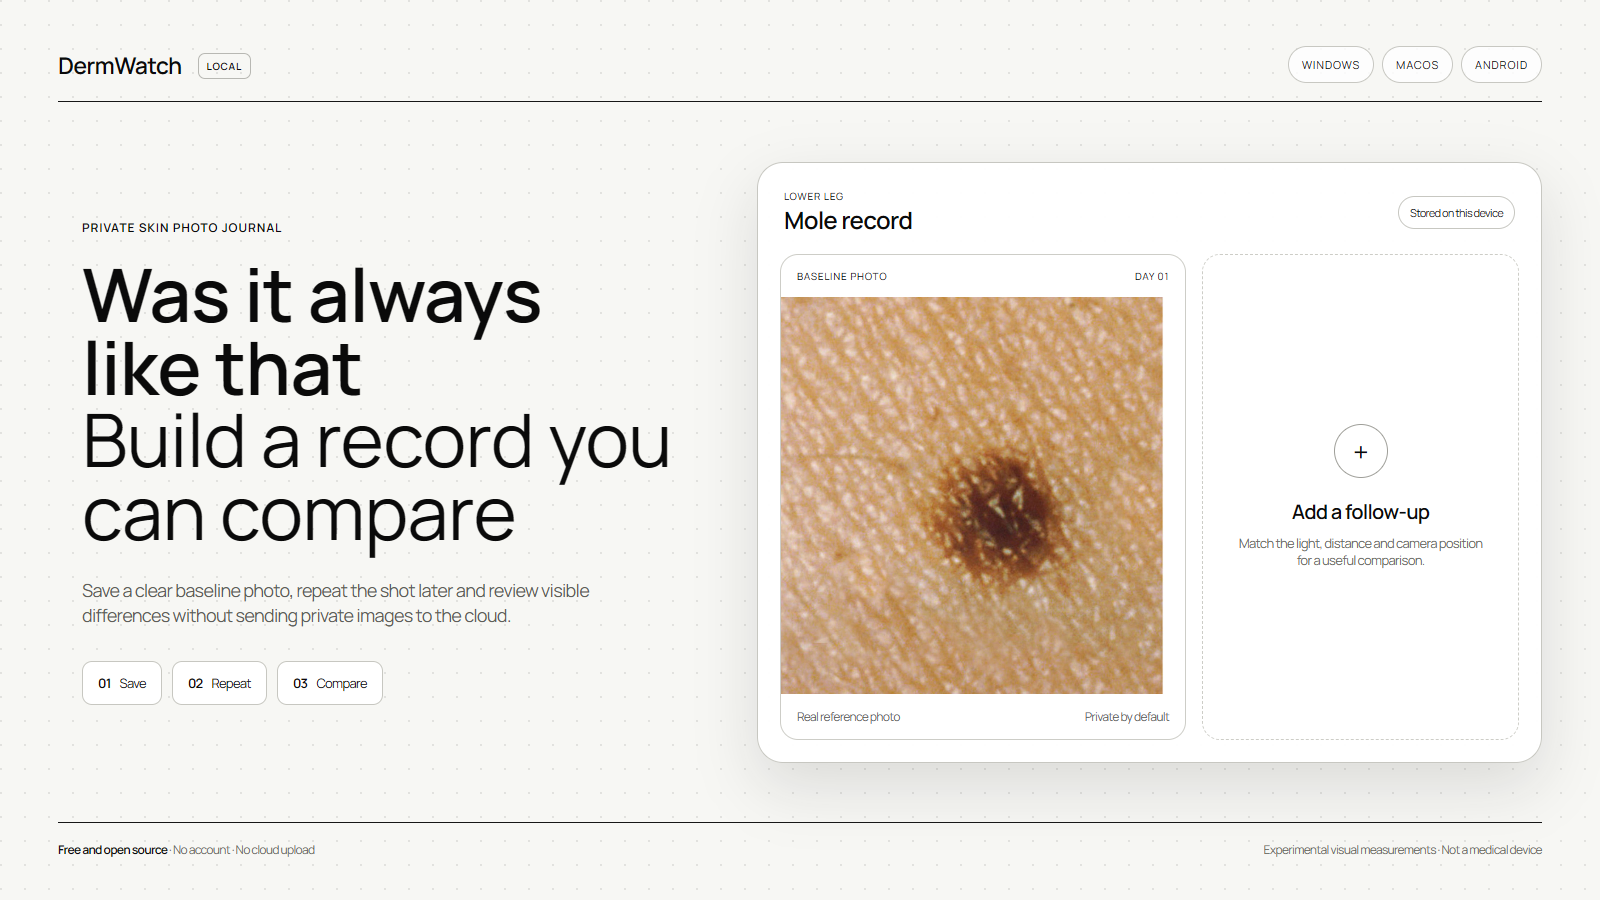
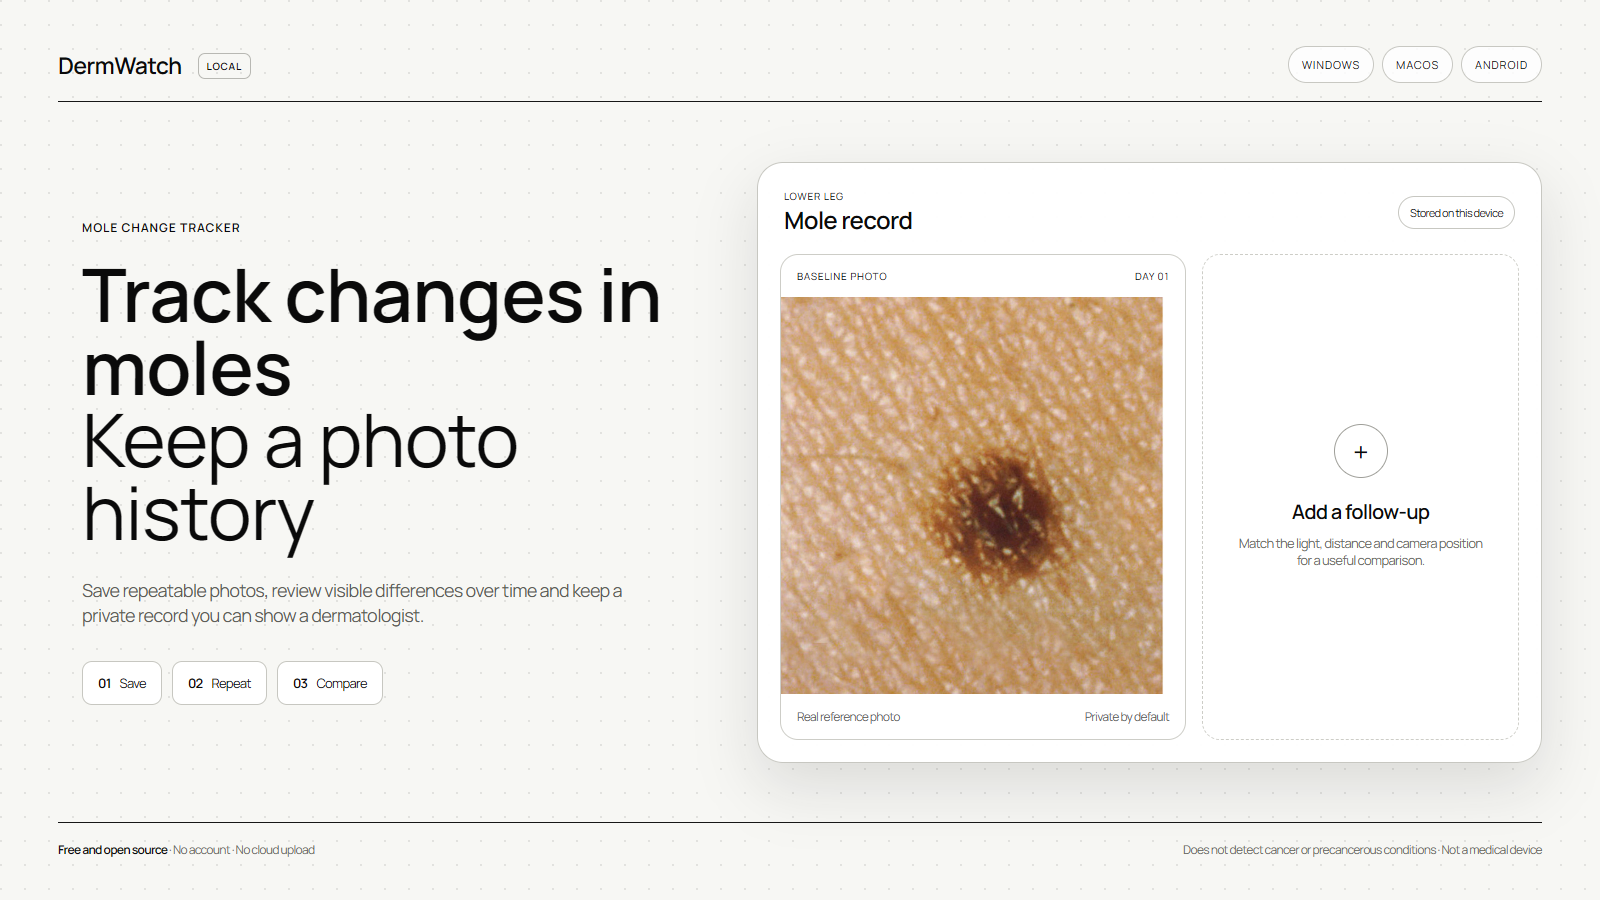
Refresh product heading and visuals (#13)

diff --git a/docs/screenshots/overview.html b/docs/screenshots/overview.html
@@ -287,11 +287,11 @@
 
       <section class="hero">
         <div class="copy">
-          <div class="eyebrow">Private skin photo journal</div>
-          <h1>Was it always like that<span>Build a record you can compare</span></h1>
+          <div class="eyebrow">Mole change tracker</div>
+          <h1>Track changes in moles<span>Keep a photo history</span></h1>
           <p class="description">
-            Save a clear baseline photo, repeat the shot later and review visible
-            differences without sending private images to the cloud.
+            Save repeatable photos, review visible differences over time and keep
+            a private record you can show a dermatologist.
           </p>
           <div class="steps" aria-label="Workflow">
             <div class="step"><b>01</b> Save</div>
@@ -336,7 +336,7 @@
 
       <footer>
         <span><strong>Free and open source</strong> · No account · No cloud upload</span>
-        <span>Experimental visual measurements · Not a medical device</span>
+        <span>Does not detect cancer or precancerous conditions · Not a medical device</span>
       </footer>
     </main>
   </body>

diff --git a/docs/launch/visuals/04-open-source.html b/docs/launch/visuals/04-open-source.html
@@ -7,7 +7,7 @@
     <style>
       .content { margin-top: 62px; display: grid; grid-template-columns: 1.3fr 0.75fr; gap: 46px; align-items: stretch; }
       .proof { height: 620px; overflow: hidden; padding: 14px; background: var(--surface); }
-      .proof img { width: 100%; height: 100%; object-fit: cover; object-position: 50% 12%; border-radius: 13px; border: 1px solid var(--line); }
+      .proof img { width: 100%; height: 100%; object-fit: contain; object-position: center; border-radius: 13px; border: 1px solid var(--line); background: var(--surface); }
       .copy { display: flex; flex-direction: column; justify-content: space-between; padding: 12px 0 8px; }
       .copy h1 { margin-top: 30px; font-size: 82px; line-height: 0.92; letter-spacing: -0.065em; }
       .copy p { margin-top: 31px; max-width: 460px; color: var(--muted); font-size: 18px; line-height: 1.28; letter-spacing: -0.04em; }

diff --git a/README.md b/README.md
@@ -1,8 +1,8 @@
-# DermWatch
+# Track changes in moles with DermWatch
 
-DermWatch is a private local photo journal for monitoring visible changes in
-moles and other skin spots over time. Image analysis and storage stay on the
-user's device.
+DermWatch is a private local photo journal for saving repeatable mole photos,
+reviewing visible differences over time, and keeping a record you can show a
+dermatologist. Image analysis and storage stay on the user's device.
 
 > [!IMPORTANT]
 > **DermWatch does not detect or rule out skin cancer or melanoma.** It is not
